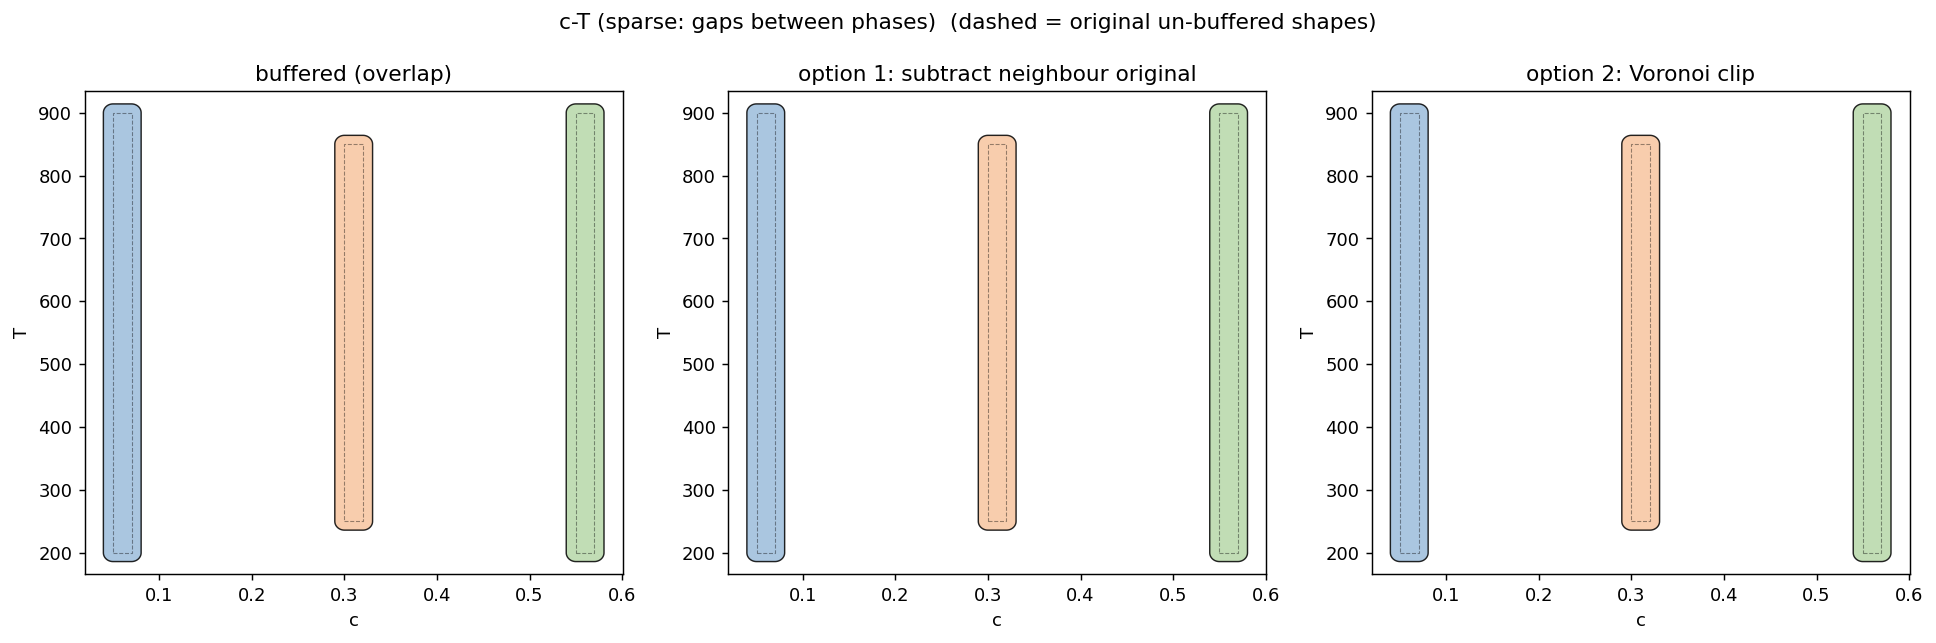
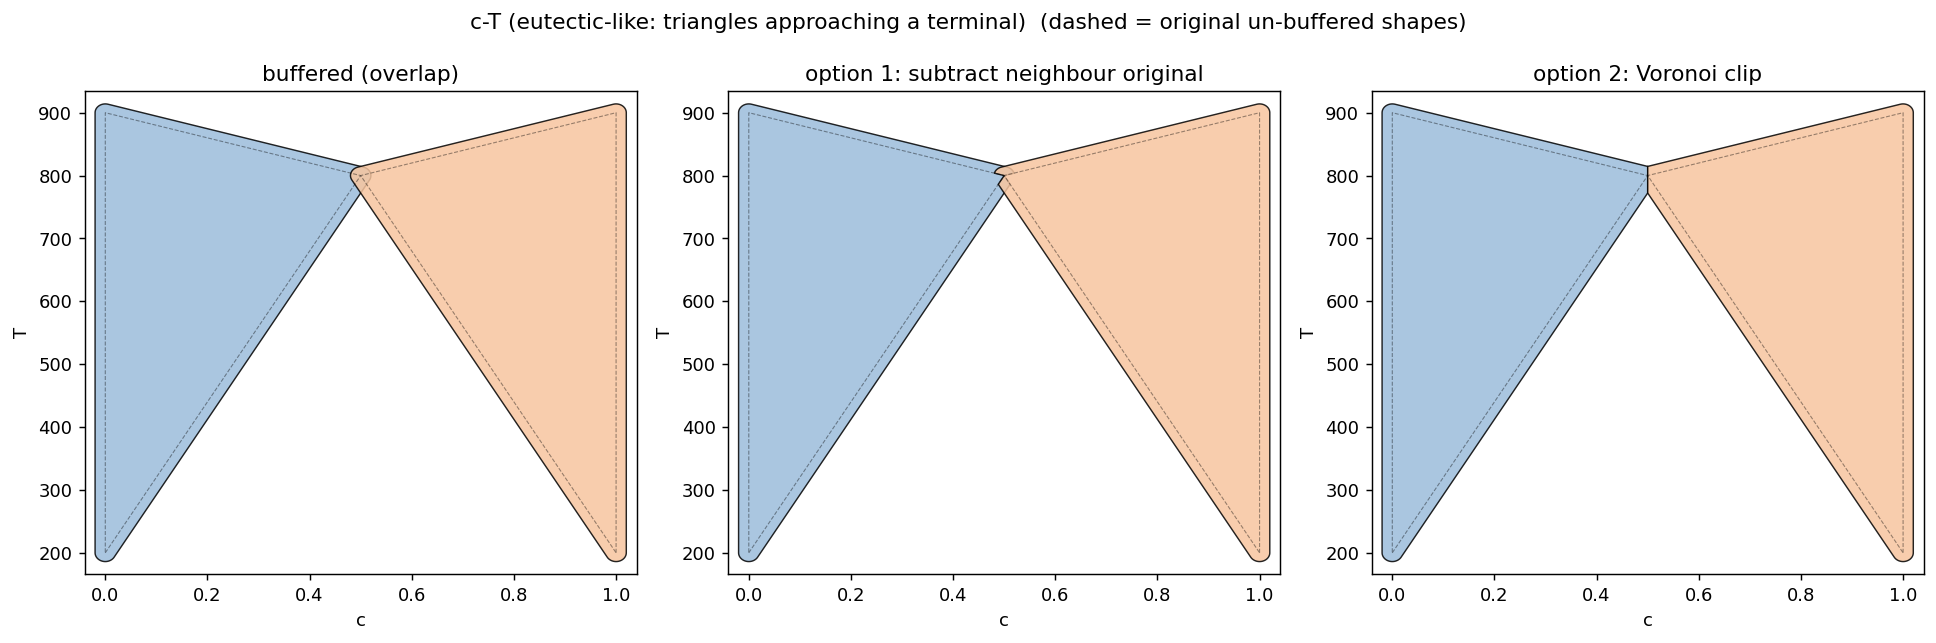
docs(issue-125): redesign c-T demo as eutectic-like triangle phases
Replace the empty-gap line-phase setup with two triangular solid-solution
regions meeting at a common eutectic point.  The buffered tips now
visibly overlap right where the buffer matters for visibility, which is
the messy case the trim has to actually solve.

diff --git a/docs/issue_125/demo.py b/docs/issue_125/demo.py
@@ -3,12 +3,12 @@
 
 We make two scenes:
 
-    c-T scene -- like a real T-vs-concentration diagram: there is *empty
-                 space* between phases along the c axis (line phases at
-                 fixed compositions); the buffer is what makes them
-                 visible at all.  Originals do not touch -- they have
-                 gaps -- so option 1's "subtract neighbour's un-buffered
-                 shape" leaves a thin overlap strip.
+    c-T scene -- two solid-solution phases shaped like Ag-Cu's alpha/beta:
+                 each is widest along its pure-element axis and tapers
+                 to (nearly) zero solubility at a common eutectic point.
+                 Buffered, the tips overlap right where the buffer was
+                 doing the most work (visibility), which is exactly the
+                 ugly case the trimming has to solve.
 
     T-mu scene -- like a T-vs-chemical-potential diagram: the phase
                  regions tile the whole plane with no gaps.  Originals
@@ -28,12 +28,18 @@ from matplotlib.patches import Polygon as MplPolygon
 
 
 def scene_cT():
-    """Three near-line phases at fixed c, separated by empty space."""
-    # narrow vertical strips with small width; gaps between them in c
-    a = shapely.Polygon([(0.05, 200), (0.07, 200), (0.07, 900), (0.05, 900)])
-    b = shapely.Polygon([(0.30, 250), (0.32, 250), (0.32, 850), (0.30, 850)])
-    c = shapely.Polygon([(0.55, 200), (0.57, 200), (0.57, 900), (0.55, 900)])
-    return {"alpha": a, "beta": b, "gamma": c}, ("c", "T")
+    """Two solid-solution phases approaching a common eutectic terminal.
+
+    Loosely modelled on Ag-Cu: two triangular regions widest along their
+    respective pure-element axes and narrowing to (nearly) zero
+    solubility at a shared eutectic point in the middle.  After buffering
+    the tips overlap right where the buffer matters most for visibility
+    -- exactly the messy case the trim has to handle.
+    """
+    eutectic = (0.5, 800)
+    alpha = shapely.Polygon([(0.0, 200), eutectic, (0.0, 900)])
+    beta = shapely.Polygon([(1.0, 200), (1.0, 900), eutectic])
+    return {"alpha": alpha, "beta": beta}, ("c", "T")
 
 
 def scene_Tmu():
@@ -191,7 +197,7 @@ def render(scene_name, originals, buffered, opt1, opt2, axis_labels, fname):
 
 
 def run():
-    for name, (scene, axes) in [("c-T (sparse: gaps between phases)", scene_cT()),
+    for name, (scene, axes) in [("c-T (eutectic-like: triangles approaching a terminal)", scene_cT()),
                                 ("T-mu (dense: phases tile the plane)", scene_Tmu())]:
         originals, axis_labels = scene, axes
         # buffer amounts representative of landau defaults (min_c_width=0.01)
@@ -208,7 +214,7 @@ def run():
         opt2 = option2(buffered, originals)
         slug = "cT" if "c-T" in name else "Tmu"
         render(name, originals, buffered, opt1, opt2, axis_labels,
-               f"/tmp/voronoi_demo/{slug}.png")
+               f"docs/issue_125/{slug}.png")
 
 
 if __name__ == "__main__":